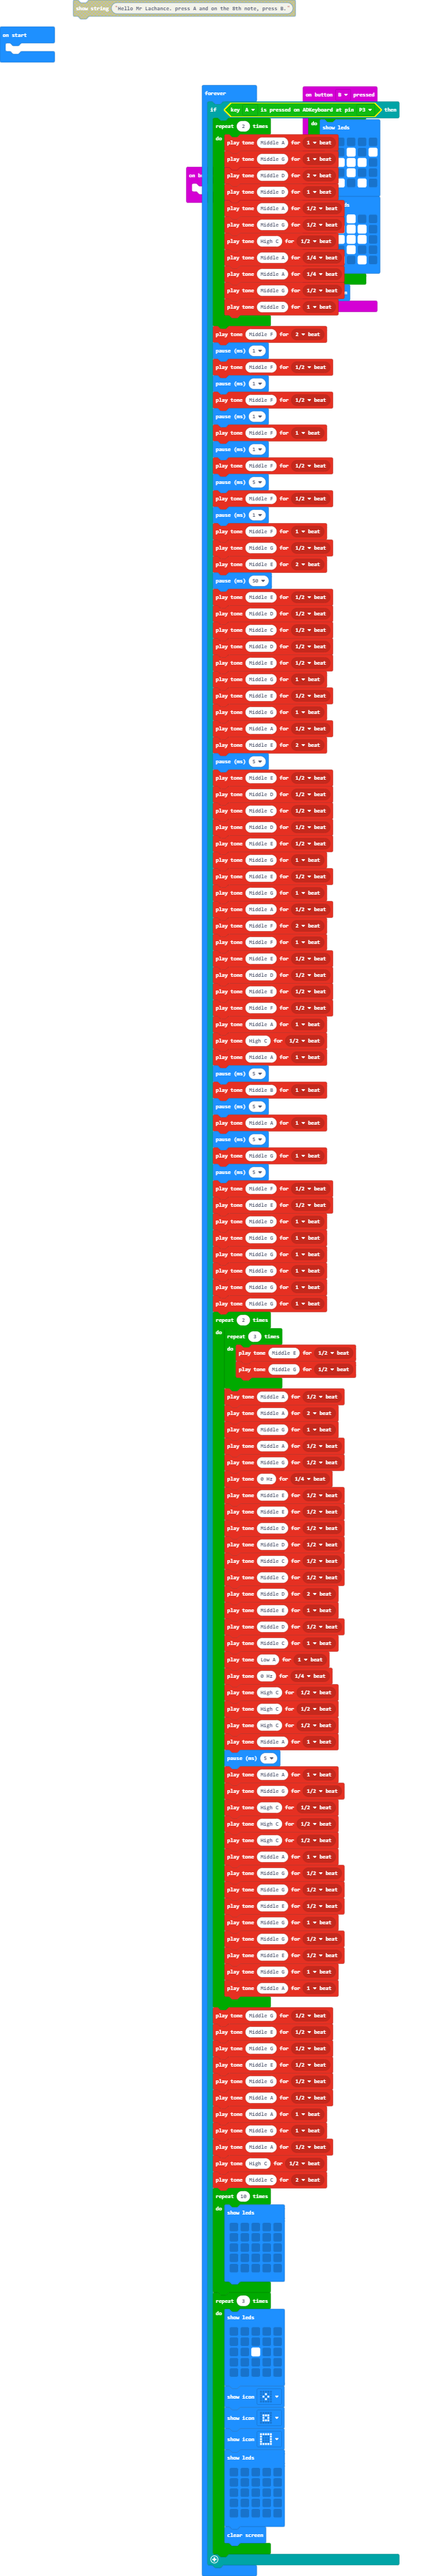
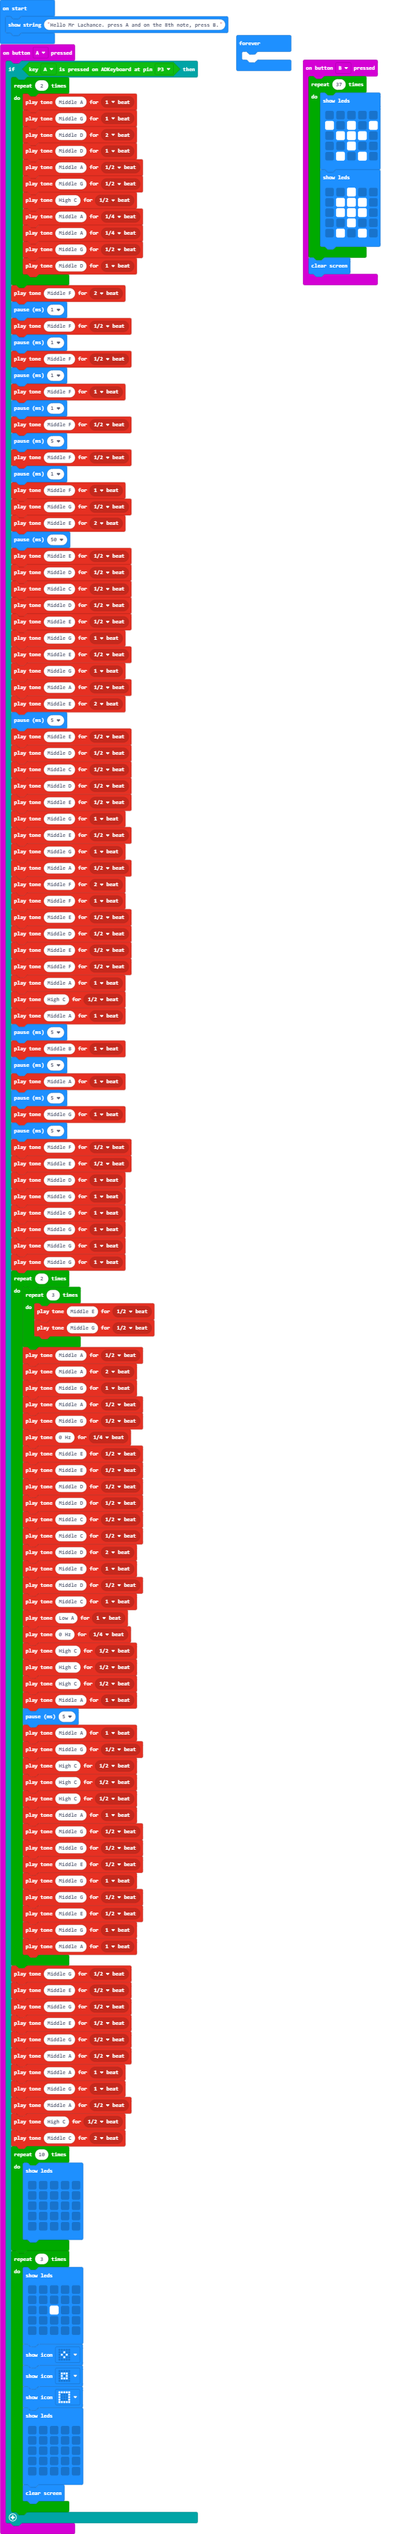
Update main.blocks, main.ts

diff --git a/main.ts b/main.ts
@@ -1,26 +1,4 @@
 input.onButtonPressed(Button.A, function () {
-	
-})
-input.onButtonPressed(Button.B, function () {
-    for (let index = 0; index < 37; index++) {
-        basic.showLeds(`
-            . . . . .
-            # . # . #
-            . # # # .
-            . . # . .
-            . # . # .
-            `)
-        basic.showLeds(`
-            . . # . .
-            . # # # .
-            . # # # .
-            . . # . .
-            . # . # .
-            `)
-    }
-    basic.clearScreen()
-})
-basic.forever(function () {
     if (tinkercademy.ADKeyboard(ADKeys.A, AnalogPin.P3)) {
         for (let index = 0; index < 2; index++) {
             music.playTone(440, music.beat(BeatFraction.Whole))
@@ -179,4 +157,27 @@ basic.forever(function () {
             basic.clearScreen()
         }
     }
+})
+input.onButtonPressed(Button.B, function () {
+    for (let index = 0; index < 37; index++) {
+        basic.showLeds(`
+            . . . . .
+            # . # . #
+            . # # # .
+            . . # . .
+            . # . # .
+            `)
+        basic.showLeds(`
+            . . # . .
+            . # # # .
+            . # # # .
+            . . # . .
+            . # . # .
+            `)
+    }
+    basic.clearScreen()
+})
+basic.showString("Hello Mr Lachance. press A and on the 8th note, press B.")
+basic.forever(function () {
+	
 })
